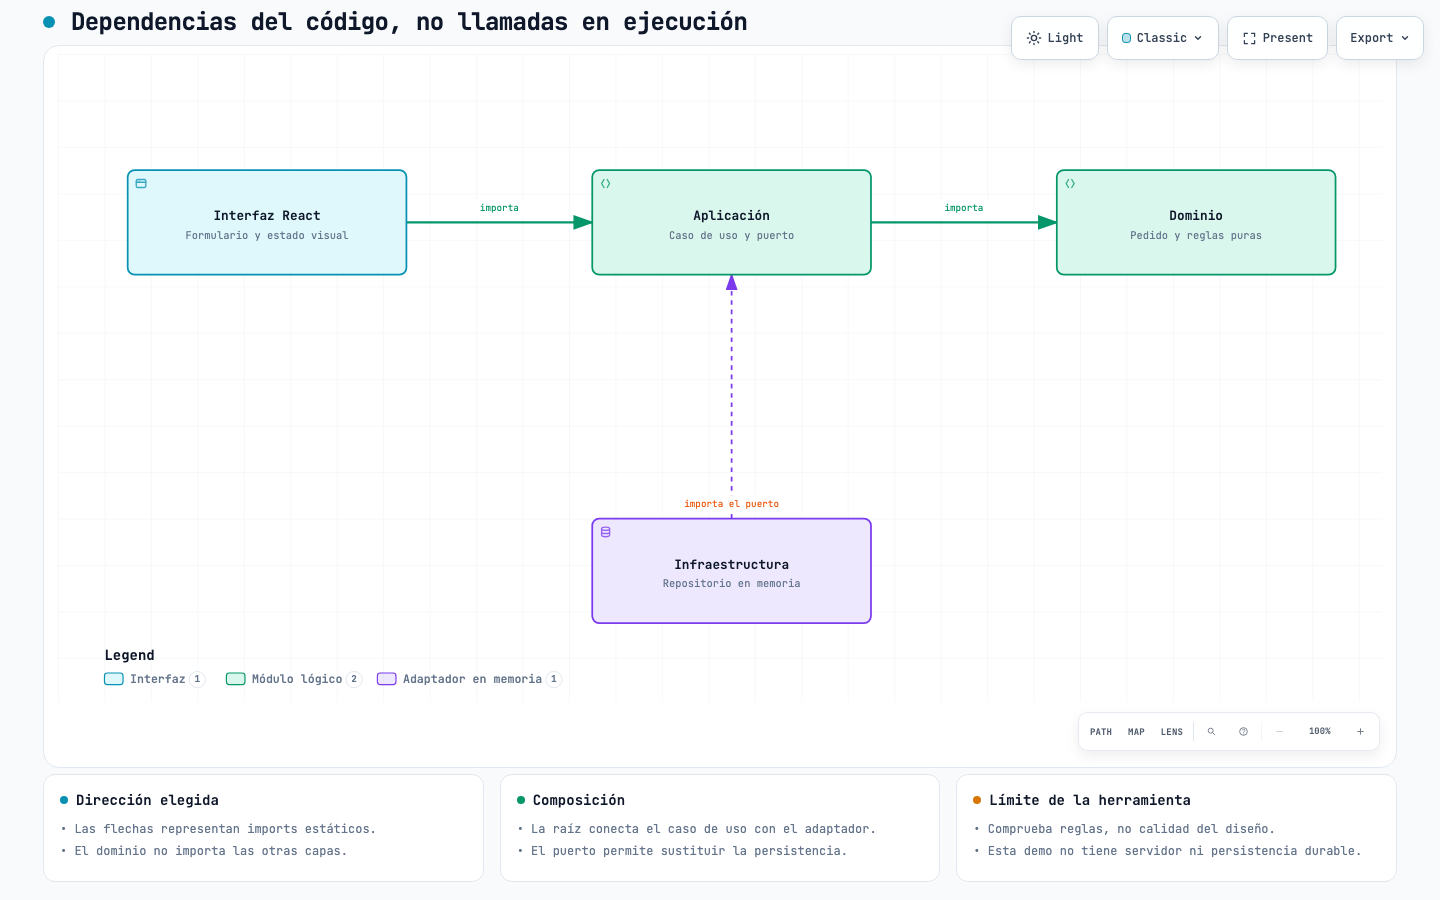
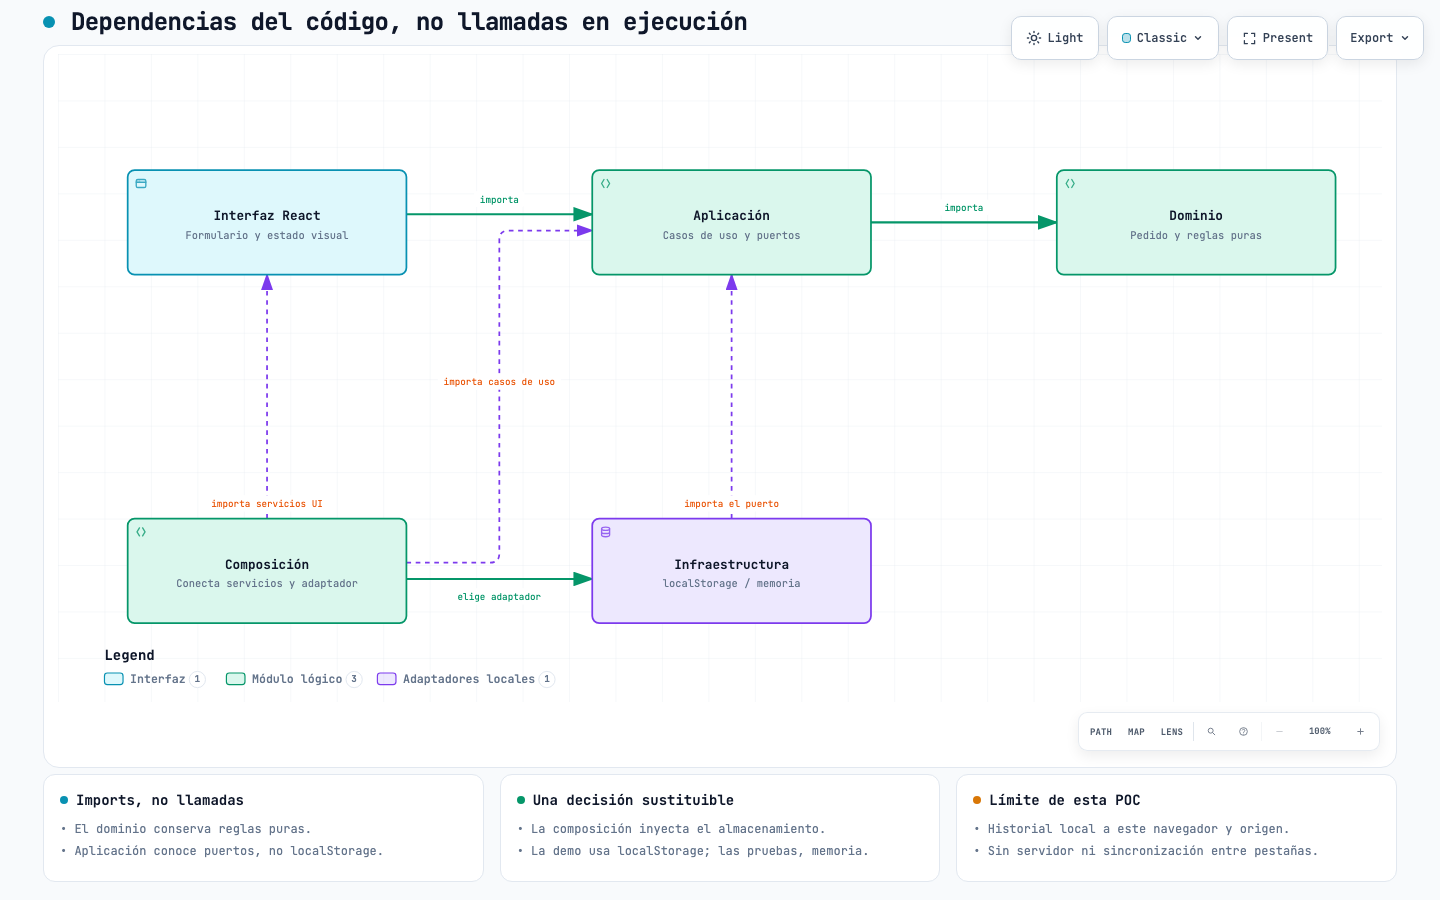
docs(diagrams): show ports adapters and composition

diff --git a/public/diagrams/architecture.html b/public/diagrams/architecture.html
@@ -5033,9 +5033,12 @@
 
 
         <!-- Connection paths (before components for correct z-order) -->
-        <path data-edge-from="ui" data-edge-to="application" data-edge-label="importa" data-edge-key="0" data-composition-points="300,145;460,145" d="M 300 145 L 460 145" class="a-emphasis" stroke-width="1.8" marker-end="url(#arrowhead-emphasis)"/>
+        <path data-edge-from="ui" data-edge-to="application" data-edge-label="importa" data-edge-key="0" data-composition-points="300,138;460,138" d="M 300 138 L 460 138" class="a-emphasis" stroke-width="1.8" marker-end="url(#arrowhead-emphasis)"/>
         <path data-edge-from="application" data-edge-to="domain" data-edge-label="importa" data-edge-key="1" data-composition-points="700,145;860,145" d="M 700 145 L 860 145" class="a-emphasis" stroke-width="1.8" marker-end="url(#arrowhead-emphasis)"/>
         <path data-edge-from="infrastructure" data-edge-to="application" data-edge-label="importa el puerto" data-edge-key="2" data-composition-points="580,400;580,190" d="M 580 400 L 580 190" class="a-dashed" stroke-width="1.5" marker-end="url(#arrowhead-dashed)"/>
+        <path data-edge-from="composition" data-edge-to="ui" data-edge-label="importa servicios UI" data-edge-key="3" data-composition-points="180,400;180,190" d="M 180 400 L 180 190" class="a-dashed" stroke-width="1.5" marker-end="url(#arrowhead-dashed)"/>
+        <path data-edge-from="composition" data-edge-to="infrastructure" data-edge-label="elige adaptador" data-edge-key="4" data-composition-points="300,452;460,452" d="M 300 452 L 460 452" class="a-emphasis" stroke-width="1.8" marker-end="url(#arrowhead-emphasis)"/>
+        <path data-edge-from="composition" data-edge-to="application" data-edge-label="importa casos de uso" data-edge-key="5" data-composition-points="300,438;380,438;380,152;460,152" d="M 300 438 L 372 438 Q 380 438 380 430 L 380 160 Q 380 152 388 152 L 460 152" class="a-dashed" stroke-width="1.5" marker-end="url(#arrowhead-dashed)"/>
 
         <!-- Components -->
         <g id="node-ui" data-node-id="ui" data-node-label="Interfaz React" tabindex="0" role="button" aria-label="Focus Interfaz React, Formulario y estado visual, Architecture component" aria-pressed="false" data-node-kind="frontend" data-node-sublabel="Formulario y estado visual" data-node-context="Architecture component">
@@ -5052,15 +5055,15 @@
         <text data-detail="context" x="180" y="159" class="t-muted" font-size="9" text-anchor="middle">Formulario y estado visual</text>
         </g>
 
-        <g id="node-application" data-node-id="application" data-node-label="Aplicación" tabindex="0" role="button" aria-label="Focus Aplicación, Caso de uso y puerto, Architecture component" aria-pressed="false" data-node-kind="backend" data-node-sublabel="Caso de uso y puerto" data-node-context="Architecture component">
-          <title>Aplicación · Caso de uso y puerto · Architecture component</title>
+        <g id="node-application" data-node-id="application" data-node-label="Aplicación" tabindex="0" role="button" aria-label="Focus Aplicación, Casos de uso y puertos, Architecture component" aria-pressed="false" data-node-kind="backend" data-node-sublabel="Casos de uso y puertos" data-node-context="Architecture component">
+          <title>Aplicación · Casos de uso y puertos · Architecture component</title>
           <rect x="460" y="100" width="240" height="90" rx="6" class="c-mask"/>
           <rect x="460" y="100" width="240" height="90" rx="6" class="c-backend" stroke-width="1.5"/>
           <g aria-hidden="true" data-semantic-sigil="backend" class="semantic-sigil s-backend" transform="translate(466 106) scale(0.6875)">
             <path d="M6 3 3 8l3 5M10 3l3 5-3 5"/>
           </g>
           <text data-node-label="" data-detail-anchor="" x="580" y="143" class="t-primary" font-size="11" font-weight="600" text-anchor="middle">Aplicación</text>
-        <text data-detail="context" x="580" y="159" class="t-muted" font-size="9" text-anchor="middle">Caso de uso y puerto</text>
+        <text data-detail="context" x="580" y="159" class="t-muted" font-size="9" text-anchor="middle">Casos de uso y puertos</text>
         </g>
 
         <g id="node-domain" data-node-id="domain" data-node-label="Dominio" tabindex="0" role="button" aria-label="Focus Dominio, Pedido y reglas puras, Architecture component" aria-pressed="false" data-node-kind="backend" data-node-sublabel="Pedido y reglas puras" data-node-context="Architecture component">
@@ -5074,8 +5077,8 @@
         <text data-detail="context" x="980" y="159" class="t-muted" font-size="9" text-anchor="middle">Pedido y reglas puras</text>
         </g>
 
-        <g id="node-infrastructure" data-node-id="infrastructure" data-node-label="Infraestructura" tabindex="0" role="button" aria-label="Focus Infraestructura, Repositorio en memoria, Architecture component" aria-pressed="false" data-node-kind="database" data-node-sublabel="Repositorio en memoria" data-node-context="Architecture component">
-          <title>Infraestructura · Repositorio en memoria · Architecture component</title>
+        <g id="node-infrastructure" data-node-id="infrastructure" data-node-label="Infraestructura" tabindex="0" role="button" aria-label="Focus Infraestructura, localStorage / memoria, Architecture component" aria-pressed="false" data-node-kind="database" data-node-sublabel="localStorage / memoria" data-node-context="Architecture component">
+          <title>Infraestructura · localStorage / memoria · Architecture component</title>
           <rect x="460" y="400" width="240" height="90" rx="6" class="c-mask"/>
           <rect x="460" y="400" width="240" height="90" rx="6" class="c-database" stroke-width="1.5"/>
           <g aria-hidden="true" data-semantic-sigil="database" class="semantic-sigil s-database" transform="translate(466 406) scale(0.6875)">
@@ -5083,13 +5086,24 @@
             <path d="M3 4v8c0 1.1 2.2 2 5 2s5-.9 5-2V4M3 8c0 1.1 2.2 2 5 2s5-.9 5-2"/>
           </g>
           <text data-node-label="" data-detail-anchor="" x="580" y="443" class="t-primary" font-size="11" font-weight="600" text-anchor="middle">Infraestructura</text>
-        <text data-detail="context" x="580" y="459" class="t-muted" font-size="9" text-anchor="middle">Repositorio en memoria</text>
+        <text data-detail="context" x="580" y="459" class="t-muted" font-size="9" text-anchor="middle">localStorage / memoria</text>
+        </g>
+
+        <g id="node-composition" data-node-id="composition" data-node-label="Composición" tabindex="0" role="button" aria-label="Focus Composición, Conecta servicios y adaptador, Architecture component" aria-pressed="false" data-node-kind="backend" data-node-sublabel="Conecta servicios y adaptador" data-node-context="Architecture component">
+          <title>Composición · Conecta servicios y adaptador · Architecture component</title>
+          <rect x="60" y="400" width="240" height="90" rx="6" class="c-mask"/>
+          <rect x="60" y="400" width="240" height="90" rx="6" class="c-backend" stroke-width="1.5"/>
+          <g aria-hidden="true" data-semantic-sigil="backend" class="semantic-sigil s-backend" transform="translate(66 406) scale(0.6875)">
+            <path d="M6 3 3 8l3 5M10 3l3 5-3 5"/>
+          </g>
+          <text data-node-label="" data-detail-anchor="" x="180" y="443" class="t-primary" font-size="11" font-weight="600" text-anchor="middle">Composición</text>
+        <text data-detail="context" x="180" y="459" class="t-muted" font-size="9" text-anchor="middle">Conecta servicios y adaptador</text>
         </g>
 
         <!-- Connection labels -->
         <g data-detail="context" data-edge-from="ui" data-edge-to="application" data-edge-label="importa" data-edge-key="0">
-          <rect x="358.2" y="125" width="43.6" height="14" rx="3" class="c-mask"/>
-          <text x="380" y="135" class="t-backend" font-size="8" text-anchor="middle">importa</text>
+          <rect x="358.2" y="118" width="43.6" height="14" rx="3" class="c-mask"/>
+          <text x="380" y="128" class="t-backend" font-size="8" text-anchor="middle">importa</text>
         </g>
         <g data-detail="context" data-edge-from="application" data-edge-to="domain" data-edge-label="importa" data-edge-key="1">
           <rect x="758.2" y="125" width="43.6" height="14" rx="3" class="c-mask"/>
@@ -5098,6 +5112,18 @@
         <g data-detail="context" data-edge-from="infrastructure" data-edge-to="application" data-edge-label="importa el puerto" data-edge-key="2">
           <rect x="534.2" y="380" width="91.6" height="14" rx="3" class="c-mask"/>
           <text x="580" y="390" class="t-messagebus" font-size="8" text-anchor="middle">importa el puerto</text>
+        </g>
+        <g data-detail="context" data-edge-from="composition" data-edge-to="ui" data-edge-label="importa servicios UI" data-edge-key="3">
+          <rect x="127" y="380" width="106" height="14" rx="3" class="c-mask"/>
+          <text x="180" y="390" class="t-messagebus" font-size="8" text-anchor="middle">importa servicios UI</text>
+        </g>
+        <g data-detail="context" data-edge-from="composition" data-edge-to="infrastructure" data-edge-label="elige adaptador" data-edge-key="4">
+          <rect x="339" y="460" width="82" height="14" rx="3" class="c-mask"/>
+          <text x="380" y="470" class="t-backend" font-size="8" text-anchor="middle">elige adaptador</text>
+        </g>
+        <g data-detail="context" data-edge-from="composition" data-edge-to="application" data-edge-label="importa casos de uso" data-edge-key="5">
+          <rect x="327" y="275" width="106" height="14" rx="3" class="c-mask"/>
+          <text x="380" y="285" class="t-messagebus" font-size="8" text-anchor="middle">importa casos de uso</text>
         </g>
 
         <!-- Boundary labels (foreground masks keep routes out of titles) -->
@@ -5114,9 +5140,9 @@
             <rect x="145" y="533" width="16" height="10" rx="2.5" class="c-backend" stroke-width="1"/>
             <text x="167" y="542" class="t-muted" font-size="10" font-weight="500">Módulo lógico</text>
           </g>
-          <g data-legend-semantic-kind="database" data-legend-kind="database" data-legend-label="Adaptador en memoria" data-legend-x="275" data-legend-baseline="542" data-legend-width="143">
+          <g data-legend-semantic-kind="database" data-legend-kind="database" data-legend-label="Adaptadores locales" data-legend-x="275" data-legend-baseline="542" data-legend-width="138">
             <rect x="275" y="533" width="16" height="10" rx="2.5" class="c-database" stroke-width="1"/>
-            <text x="297" y="542" class="t-muted" font-size="10" font-weight="500">Adaptador en memoria</text>
+            <text x="297" y="542" class="t-muted" font-size="10" font-weight="500">Adaptadores locales</text>
           </g>
         </g>
       </svg>
@@ -5308,33 +5334,33 @@
       <div class="card">
         <div class="card-header">
           <div class="card-dot cyan"></div>
-          <h3>Dirección elegida</h3>
+          <h3>Imports, no llamadas</h3>
         </div>
         <ul>
-          <li>&bull; Las flechas representan imports estáticos.</li>
-          <li>&bull; El dominio no importa las otras capas.</li>
+          <li>&bull; El dominio conserva reglas puras.</li>
+          <li>&bull; Aplicación conoce puertos, no localStorage.</li>
         </ul>
       </div>
 
       <div class="card">
         <div class="card-header">
           <div class="card-dot emerald"></div>
-          <h3>Composición</h3>
+          <h3>Una decisión sustituible</h3>
         </div>
         <ul>
-          <li>&bull; La raíz conecta el caso de uso con el adaptador.</li>
-          <li>&bull; El puerto permite sustituir la persistencia.</li>
+          <li>&bull; La composición inyecta el almacenamiento.</li>
+          <li>&bull; La demo usa localStorage; las pruebas, memoria.</li>
         </ul>
       </div>
 
       <div class="card">
         <div class="card-header">
           <div class="card-dot amber"></div>
-          <h3>Límite de la herramienta</h3>
+          <h3>Límite de esta POC</h3>
         </div>
         <ul>
-          <li>&bull; Comprueba reglas, no calidad del diseño.</li>
-          <li>&bull; Esta demo no tiene servidor ni persistencia durable.</li>
+          <li>&bull; Historial local a este navegador y origen.</li>
+          <li>&bull; Sin servidor ni sincronización entre pestañas.</li>
         </ul>
       </div>
     </div>
